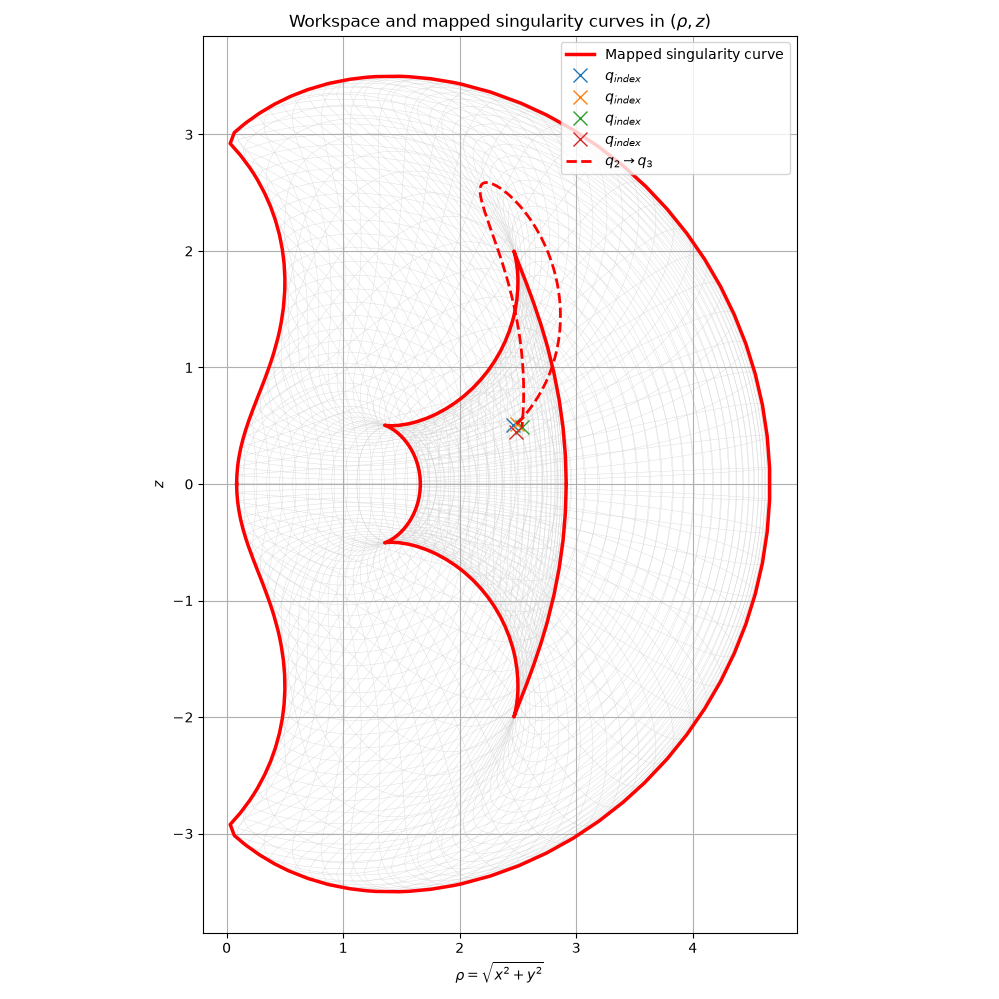
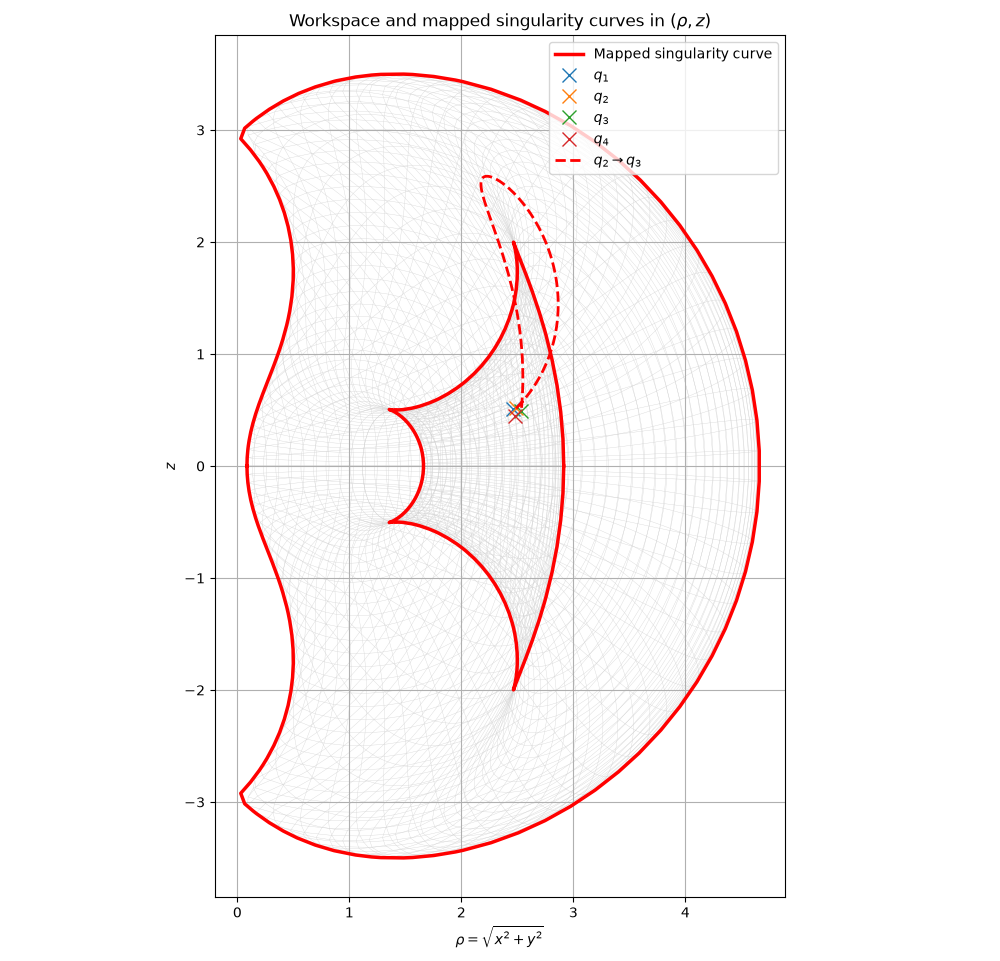
fix workspace plot legend bugs

diff --git a/3R/workspace_plot.py b/3R/workspace_plot.py
@@ -127,7 +127,7 @@ def plot_workspace(robot, grid_size=300):
             marker="x",
             markersize=10,
             linestyle="None",
-            label=fr"$q_{{index}}$"
+            label=fr"$q_{{{index}}}$"
             )
 
     # plot the paths connecting q2 and q3 in workspace
